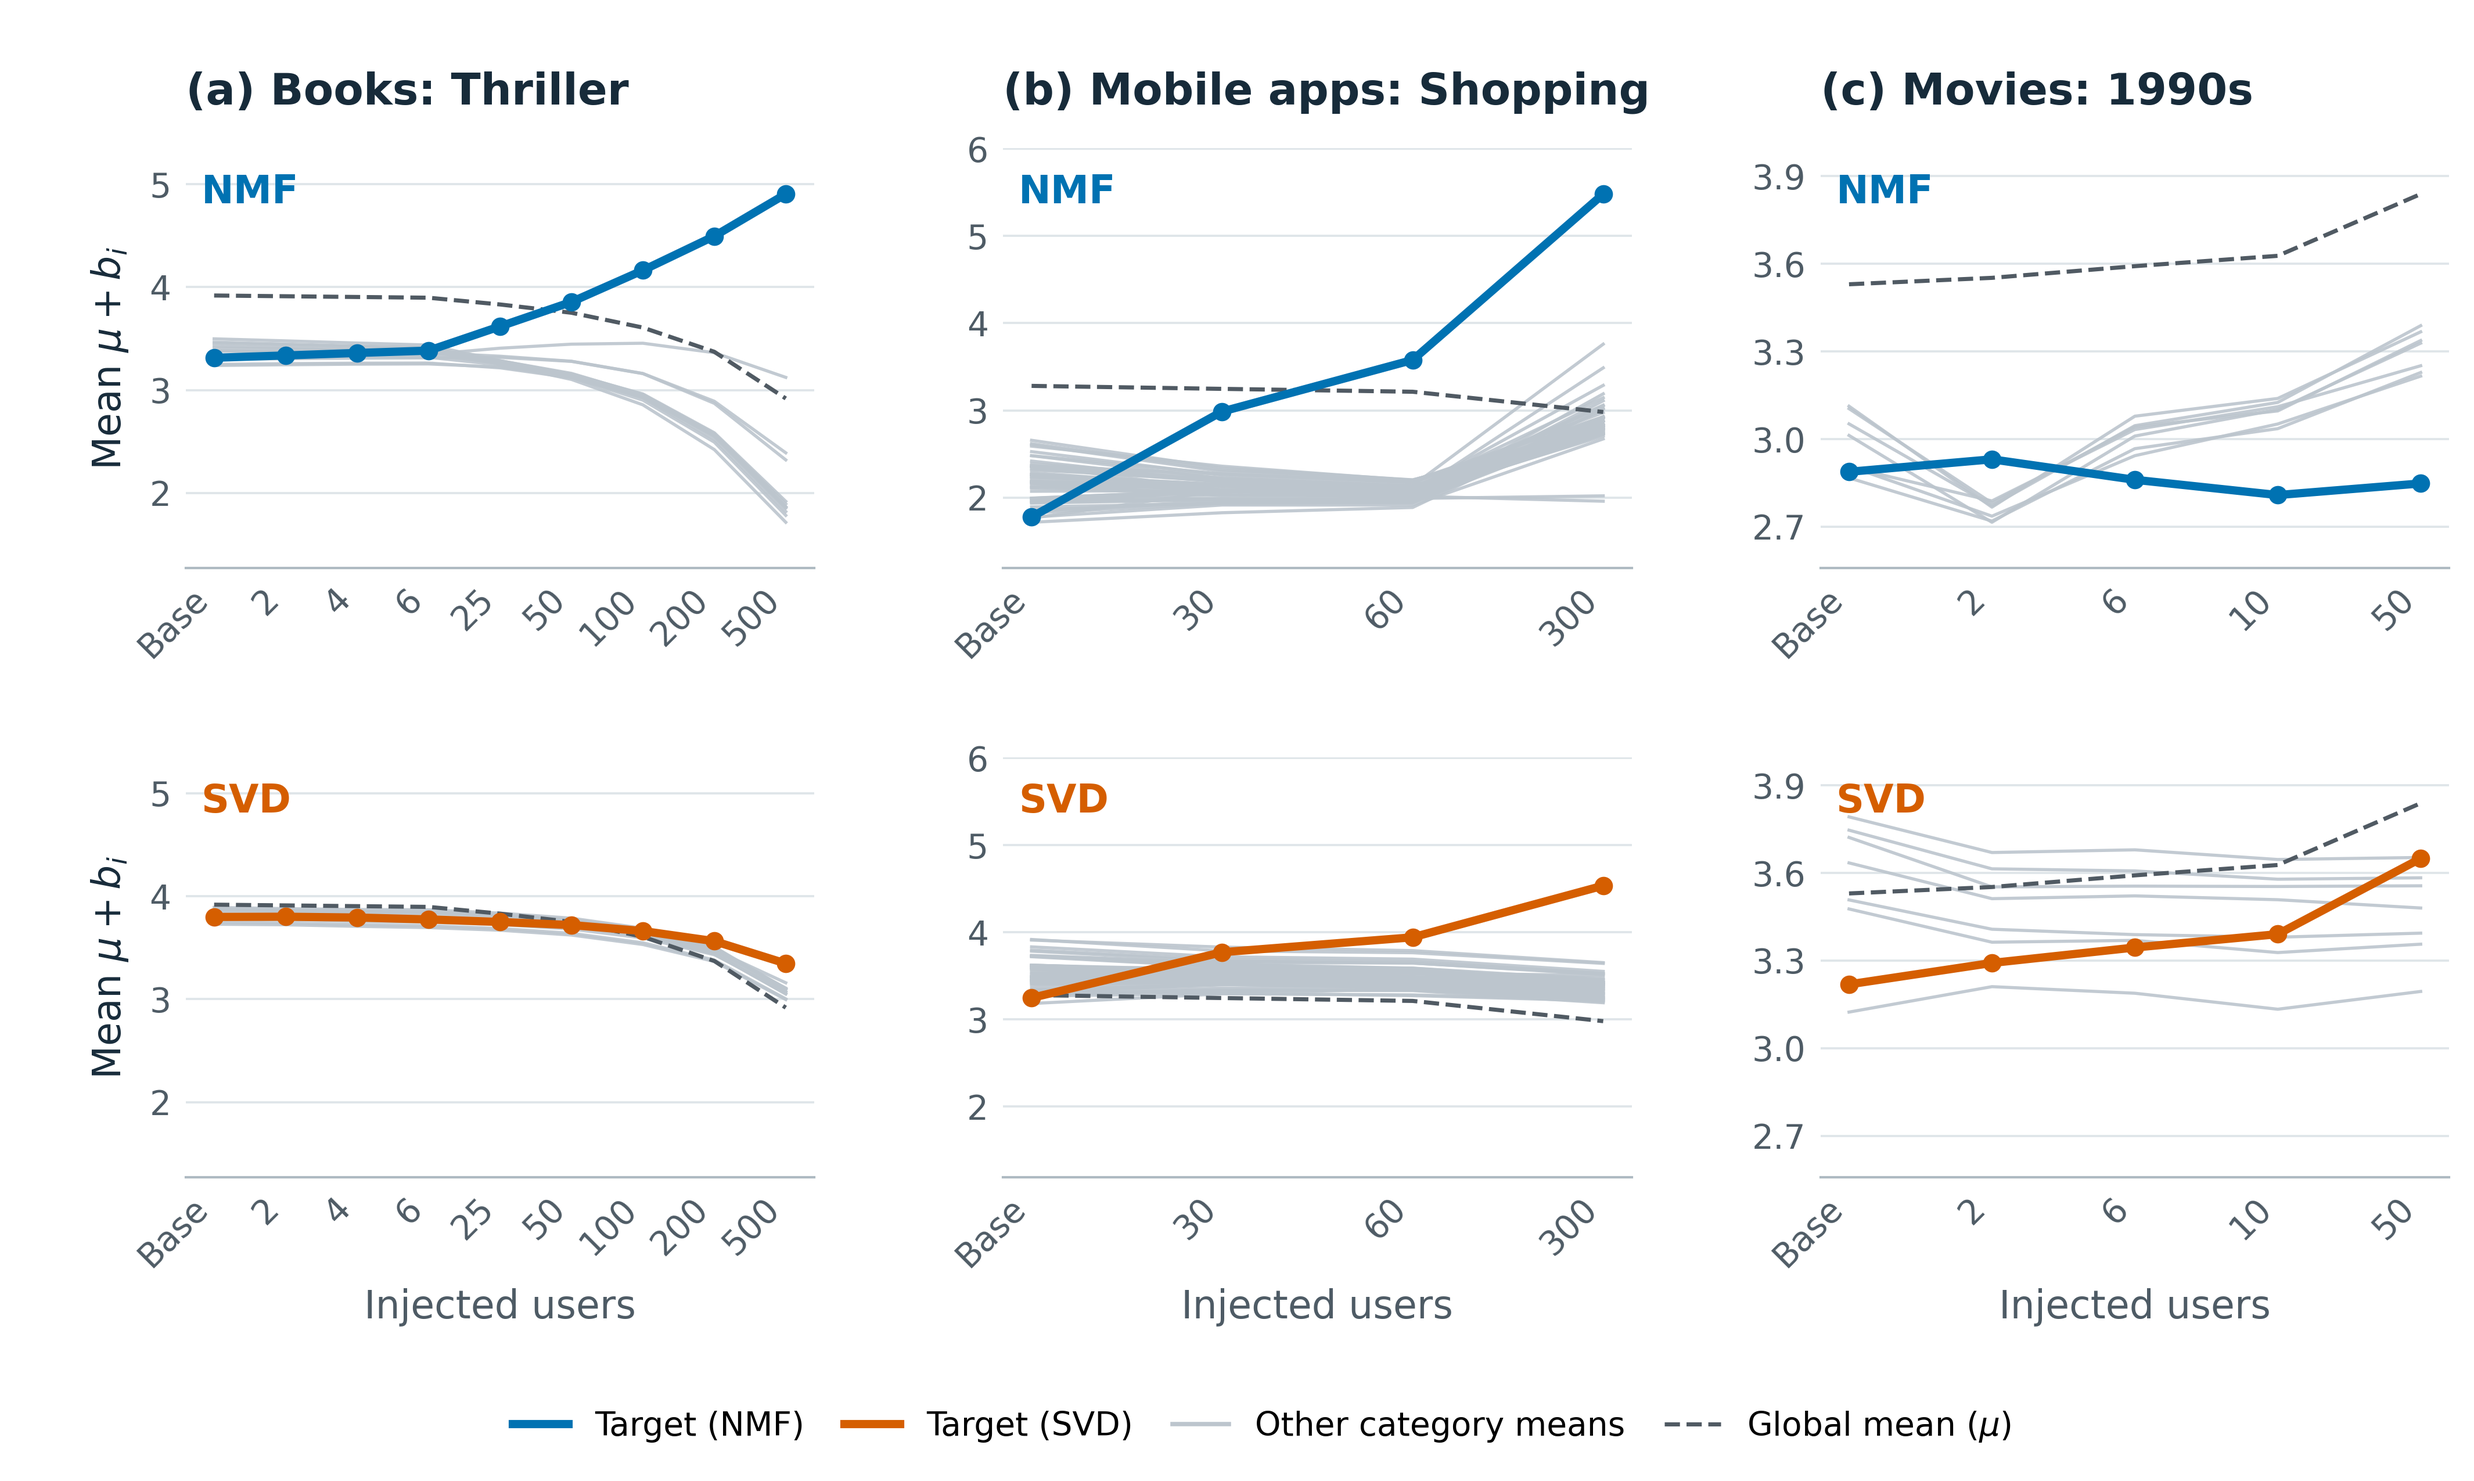
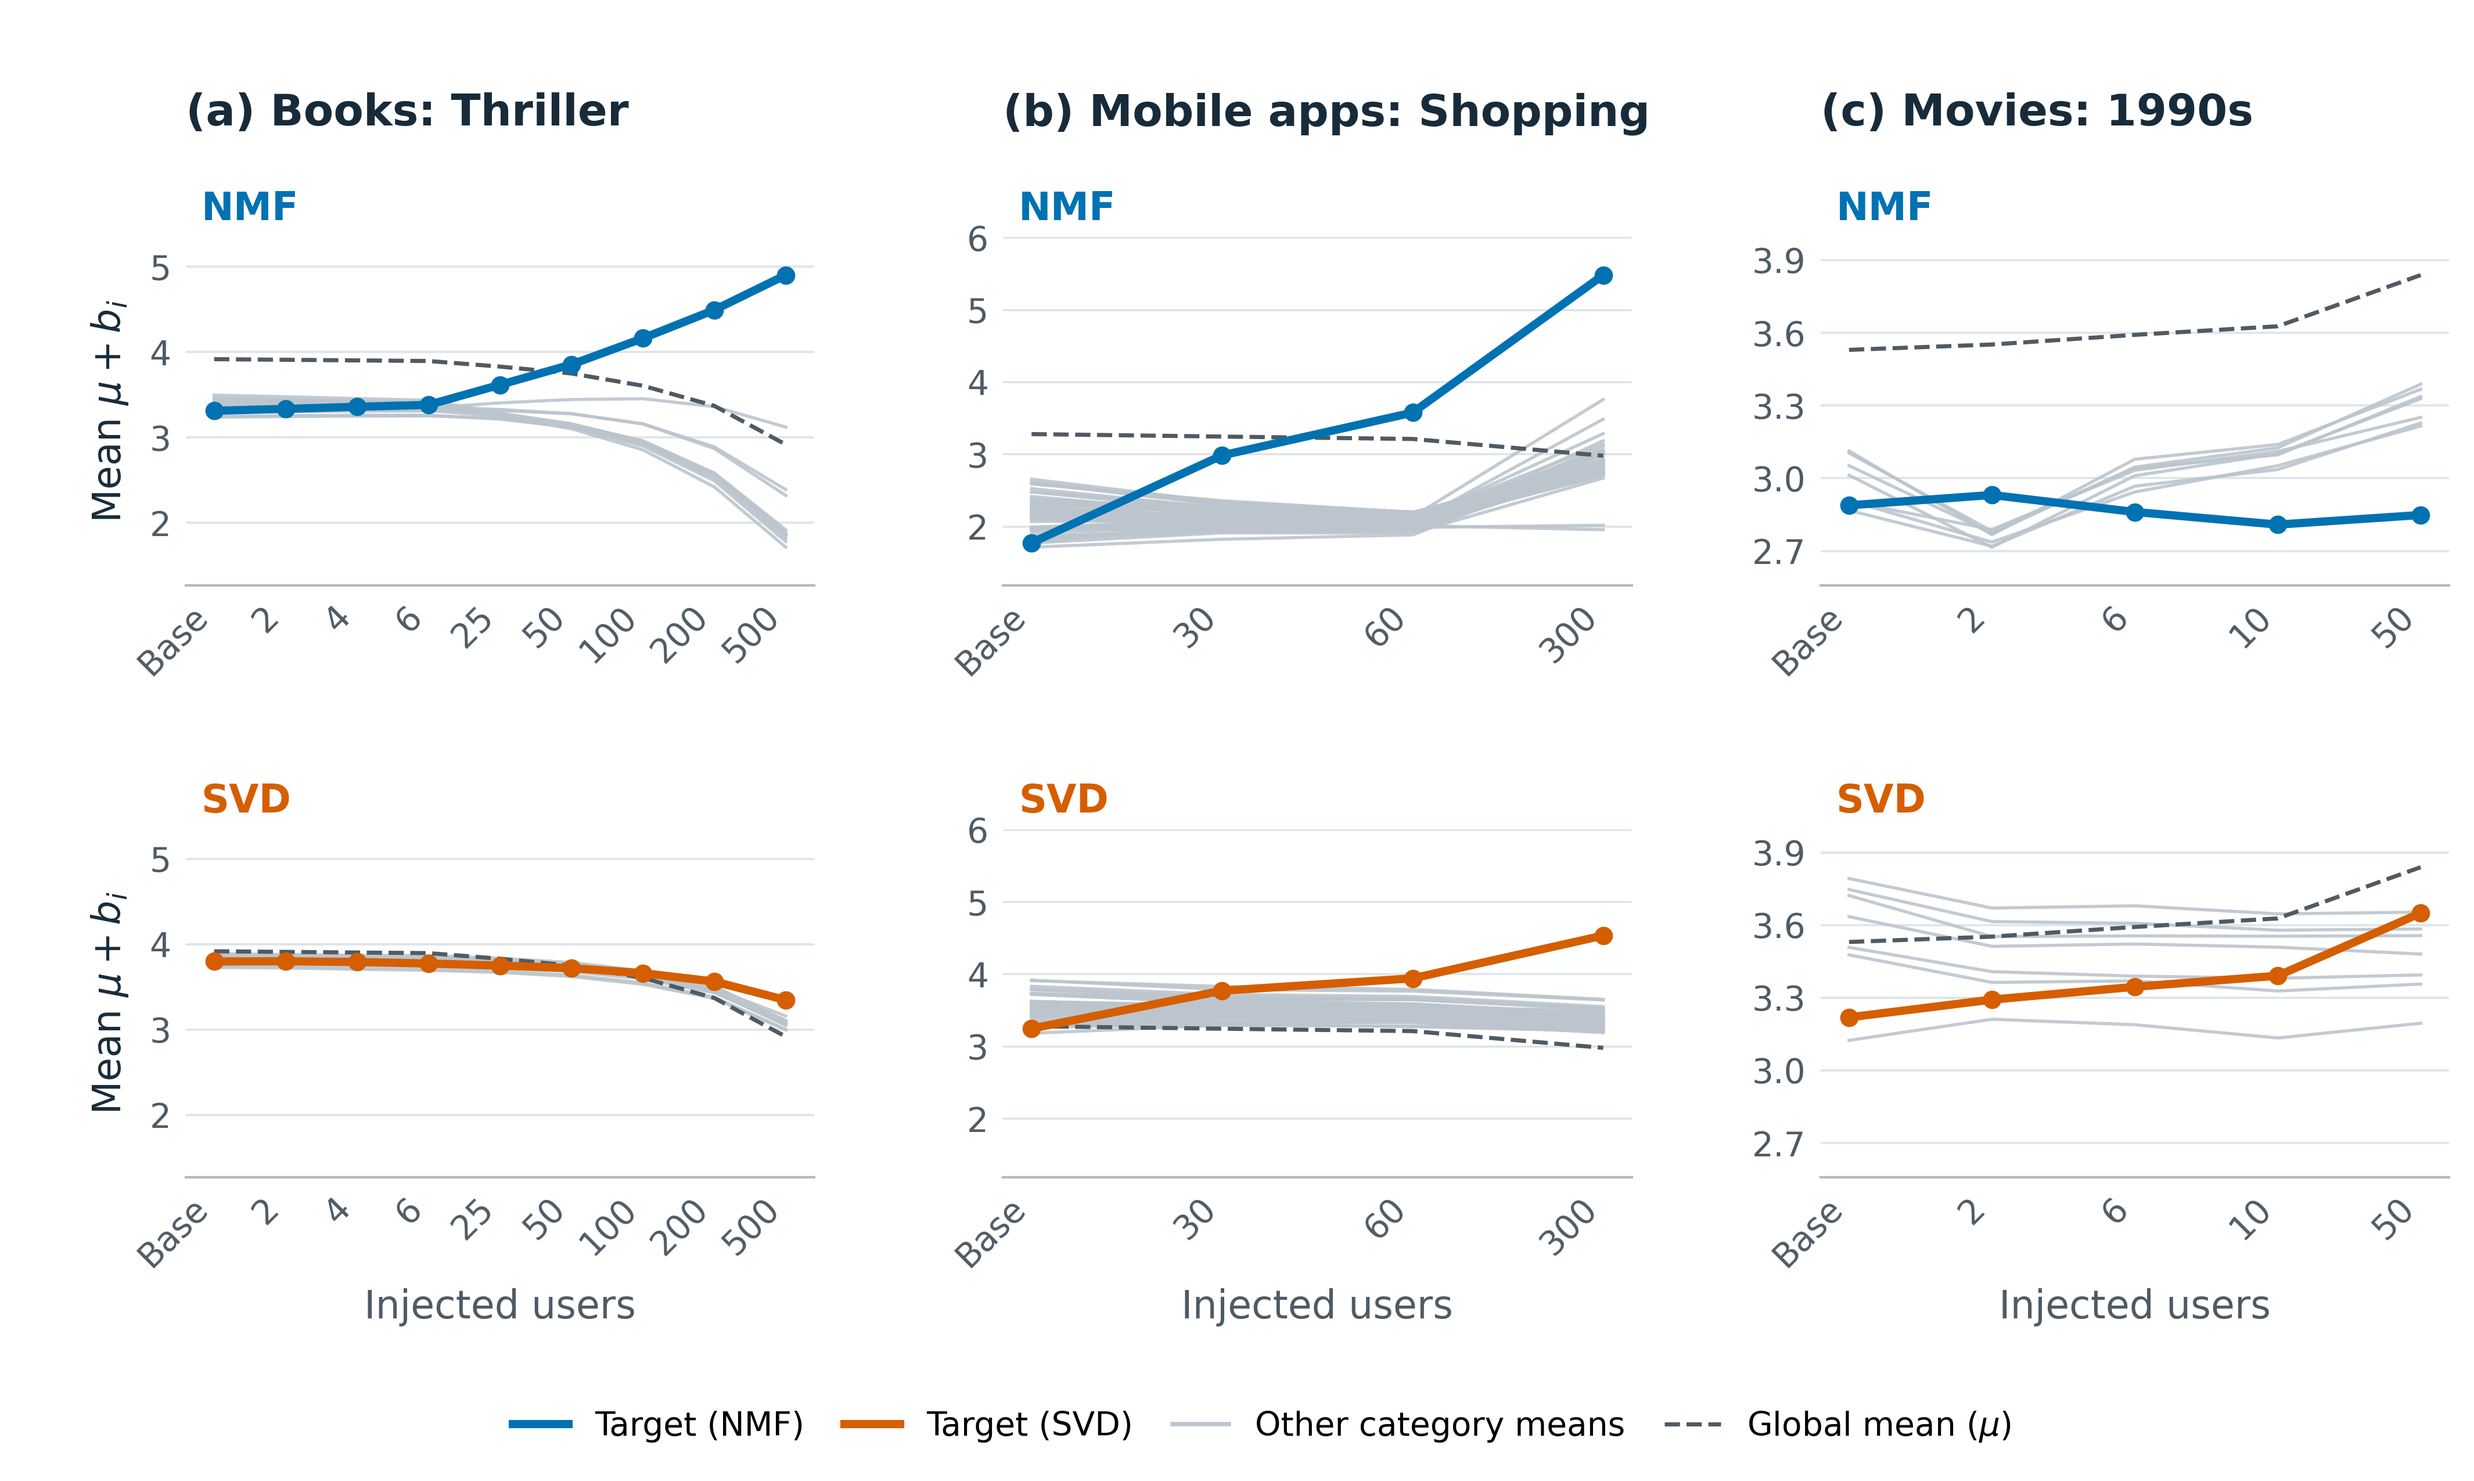
Move model titles above score-offset plot areas

diff --git a/First_paper_material/Book/notebook/render_score_offsets.py b/First_paper_material/Book/notebook/render_score_offsets.py
@@ -1,0 +1,51 @@
+"""Rebuild remaining first-paper figures from saved data, without training models."""
+from pathlib import Path
+from collections import Counter
+import json,hashlib
+import numpy as np,pandas as pd
+import matplotlib
+matplotlib.use('Agg')
+import matplotlib.pyplot as plt
+from matplotlib.lines import Line2D
+from matplotlib.ticker import MaxNLocator,StrMethodFormatter
+R=Path('/home/moshtasa/Research/phd-recsys');O=R/'First_paper_material/Book';D=O/'data';D.mkdir(parents=True,exist_ok=True)
+NAVY='#172B3A';MUTED='#4E5B65';MODEL={'NMF':'#0072B2','SVD':'#D55E00'};GRAY='#BCC5CD'
+plt.rcParams.update({'font.family':'DejaVu Sans','font.size':8,'axes.titlesize':9,'axes.titleweight':'bold','axes.labelsize':8,'xtick.labelsize':7,'ytick.labelsize':7,'axes.spines.top':False,'axes.spines.right':False,'axes.spines.left':False,'axes.linewidth':.5,'savefig.facecolor':'white','figure.facecolor':'white'})
+SOURCES=[]
+def read(p):
+ SOURCES.append({'path':str(p),'sha256':hashlib.sha256(p.read_bytes()).hexdigest()});return pd.read_csv(p)
+def save(fig,name):fig.savefig(O/name,dpi=600);plt.close(fig);print('SAVED',name,flush=True)
+def style(ax,ns):
+ ax.set_xticks(np.arange(len(ns)),['Base']+[str(n) for n in ns[1:]],rotation=45,ha='right');ax.set_xlabel('Injected users',color=MUTED,labelpad=3)
+ ax.tick_params(axis='both',length=0,pad=3,colors=MUTED);ax.grid(axis='y',color='#DFE5E9',lw=.45);ax.set_axisbelow(True);ax.spines['bottom'].set_color('#AEBAC2');ax.yaxis.set_major_locator(MaxNLocator(nbins=5))
+configs=[('Books','Thriller',[0,2,4,6,25,50,100,200,500],'genre','books'),('Mobile apps','Shopping',[0,30,60,300],'category','allapps'),('Movies','1990',[0,2,6,10,50],'decade','movies')]
+
+f=pd.read_csv(D/'score_offset_parameters.csv')
+def panel(ax,d,model,col,ns,limits):
+ target=d.target.iloc[0]
+ for cat,g in d[d.category!=target].groupby('category'):
+  g=g.sort_values('n_fake');assert g.n_fake.tolist()==ns;ax.plot(range(len(ns)),g[col],color=GRAY,lw=.65,alpha=.9,zorder=2)
+ t=d[d.category==target].sort_values('n_fake');ax.plot(range(len(ns)),t[col],color=MODEL[model],lw=1.7,marker='o',ms=2.8,zorder=4)
+ if col=='mu_plus_bi':ax.plot(range(len(ns)),t.global_mean_mu,ls='--',color='#505A63',lw=.85,zorder=3)
+ else:ax.axhline(0,color='#9DA9B2',lw=.55,ls='--',zorder=1)
+ ax.set_ylim(*limits);style(ax,ns);ax.text(.025,.94,model,color=MODEL[model],transform=ax.transAxes,fontsize=8,weight='bold',va='top')
+def lim(d,col):
+ v=d[col].to_numpy()
+ if col=='mu_plus_bi':v=np.r_[v,d.global_mean_mu.to_numpy()]
+ lo=float(v.min());hi=float(v.max());pad=max((hi-lo)*.14,.1);return lo-pad,hi+pad
+legend=[Line2D([0],[0],color=MODEL['NMF'],lw=1.7,label='Target (NMF)'),Line2D([0],[0],color=MODEL['SVD'],lw=1.7,label='Target (SVD)'),Line2D([0],[0],color=GRAY,lw=.9,label='Other category means')]
+# Combined score-offset figure and the individual figures expected by the manuscript.
+fig,axs=plt.subplots(2,3,figsize=(7.1,4.25))
+for ci,(dataset,target,ns,category,domain) in enumerate(configs):
+ d=f[f.dataset==dataset];yl=lim(d,'mu_plus_bi')
+ for ri,model in enumerate(['NMF','SVD']):
+  ax=axs[ri,ci];panel(ax,d[d.model==model],model,'mu_plus_bi',ns,yl)
+  # Keep model labels outside the data area, below the dataset headings.
+  for label in list(ax.texts): label.remove()
+  ax.text(.025,1.025,model,color=MODEL[model],transform=ax.transAxes,fontsize=8,weight='bold',va='bottom',clip_on=False)
+  if ri==0:ax.set_title(f'({chr(97+ci)}) {dataset}: '+('1990s' if target=='1990' else target),loc='left',pad=23,color=NAVY)
+  if ri==0:ax.set_xlabel('')
+  if ci==0:ax.set_ylabel(r'Mean $\mu+b_i$',color=NAVY)
+leg=legend+[Line2D([0],[0],color='#505A63',ls='--',lw=.85,label=r'Global mean ($\mu$)')]
+fig.legend(handles=leg,loc='lower center',bbox_to_anchor=(.51,.005),ncol=4,frameon=False,fontsize=6.8,handlelength=1.7,columnspacing=1.2)
+fig.subplots_adjust(left=.075,right=.99,top=.84,bottom=.205,wspace=.30,hspace=.70);save(fig,'score_offsets_three_domains.png')

diff --git a/First_paper_material/Book/notebook/build_remaining_figures.py b/First_paper_material/Book/notebook/build_remaining_figures.py
@@ -75,12 +75,15 @@ for ci,(dataset,target,ns,category,domain) in enumerate(configs):
  d=f[f.dataset==dataset];yl=lim(d,'mu_plus_bi')
  for ri,model in enumerate(['NMF','SVD']):
   ax=axs[ri,ci];panel(ax,d[d.model==model],model,'mu_plus_bi',ns,yl)
-  if ri==0:ax.set_title(f'({chr(97+ci)}) {dataset}: '+('1990s' if target=='1990' else target),loc='left',pad=9,color=NAVY)
+  # Keep model labels outside the data area, below the dataset headings.
+  for label in list(ax.texts): label.remove()
+  ax.text(.025,1.025,model,color=MODEL[model],transform=ax.transAxes,fontsize=8,weight='bold',va='bottom',clip_on=False)
+  if ri==0:ax.set_title(f'({chr(97+ci)}) {dataset}: '+('1990s' if target=='1990' else target),loc='left',pad=23,color=NAVY)
   if ri==0:ax.set_xlabel('')
   if ci==0:ax.set_ylabel(r'Mean $\mu+b_i$',color=NAVY)
 leg=legend+[Line2D([0],[0],color='#505A63',ls='--',lw=.85,label=r'Global mean ($\mu$)')]
 fig.legend(handles=leg,loc='lower center',bbox_to_anchor=(.51,.005),ncol=4,frameon=False,fontsize=6.8,handlelength=1.7,columnspacing=1.2)
-fig.subplots_adjust(left=.075,right=.99,top=.90,bottom=.205,wspace=.30,hspace=.45);save(fig,'score_offsets_three_domains.png')
+fig.subplots_adjust(left=.075,right=.99,top=.84,bottom=.205,wspace=.30,hspace=.70);save(fig,'score_offsets_three_domains.png')
 for dataset,target,ns,category,domain in configs:
  d=f[f.dataset==dataset];fig,axs=plt.subplots(1,2,figsize=(7.1,2.8),sharey=True)
  for ax,model in zip(axs,['NMF','SVD']):panel(ax,d[d.model==model],model,'mu_plus_bi',ns,lim(d,'mu_plus_bi'))
